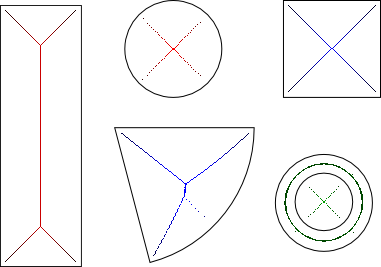
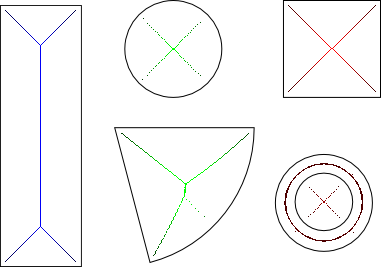
hough line joining

diff --git a/hough.py b/hough.py
@@ -38,6 +38,9 @@ circles = cv2.HoughCircles(gray,cv.CV_HOUGH_GRADIENT,1,50,
                             param1=50,param2=30,minRadius=0,maxRadius=0)
 
 
+def line_length(line):
+  return math.sqrt((line[0] - line[2])**2 + (line[1] + line[3])**2)
+
 if lines is not None:
   print "FOUND ", len(lines[0]), "LINES"
   unjoined_lines = []
@@ -63,19 +66,9 @@ if lines is not None:
 
   cv2.imwrite(FILE + 'houghlines.jpg',blankimg)
 
+  blankimg[:] = (255, 255, 255)
 
-  newlines = []
-  for line in lines:
-    if line[0] == line[2]:
-      if line[1] > line[3]:
-        newlines.append([line[2], line[3], line[0], line[1]])
-
-      else:
-        newlines.append(line)
-    else:
-      newlines.append(line)
-     
-  lines = newlines
+  lines = list(lines)
   while joined:
       didjoin = False
       print len(lines), "LINES ARE", lines
@@ -85,7 +78,7 @@ if lines is not None:
       from collections import defaultdict
       used = defaultdict(bool)
 
-      lines.sort(key=lambda x: abs(x[2] - x[0]) + abs(x[3] - x[1]))
+      lines.sort(key=lambda x: math.sqrt(abs(x[2] - x[0])**2 + abs(x[3] - x[1])**2))
       for line in lines:
           joined = False
           if used[tuple(line)]:
@@ -105,7 +98,7 @@ if lines is not None:
               try:
                   slope1 = float(line[3] - line[1]) / float(line[2] - line[0]) 
               except:
-                pass
+                  pass
 
               try:
                   slope2 = float(neighbor[3] - neighbor[1]) / float(neighbor[2] - neighbor[0]) 
@@ -127,7 +120,7 @@ if lines is not None:
                 a_val = neighbor[a]
                 b_val = neighbor[b]
 
-                THRESH=10
+                THRESH=30
                 closeness = math.sqrt((x_val - a_val)**2 + (y_val - b_val)**2)
 
                 if closeness > THRESH:
@@ -135,7 +128,7 @@ if lines is not None:
 
                 print "CORNERS MATCH", (x_val, y_val), (a_val, b_val), line, neighbor
 
-                if abs(slope1 - slope2) > 0.001:
+                if abs(slope1 - slope2) > 0.002:
                     continue
 
                 print "SLOPES MATCH", slope1, slope2
@@ -146,7 +139,7 @@ if lines is not None:
                 continue
 
               candidates.sort()
-              closeness, (x, y, a, b) = candidates[-1]
+              closeness, (x, y, a, b) = candidates[0]
 
 
 
@@ -158,9 +151,6 @@ if lines is not None:
               new_a_val = neighbor[(a + 2) % 4]
               new_b_val = neighbor[(b + 2) % 4]
 
-              used[tuple(line)] = True
-              used[tuple(neighbor)] = True
-        
               # THIS IS WHERE WE NEED TO DO IT RIGHT?
               newline = [
                   new_x_val,
@@ -170,15 +160,24 @@ if lines is not None:
               ]
 
               if tuple(newline) != tuple(line) and tuple(newline) != tuple(neighbor):
-                  didjoin = True
-                  joined = True
+                  print "LINE LENGTHS", line_length(line), line_length(neighbor), line_length(newline)
+                  if (line_length(line) > line_length(newline) or line_length(neighbor) > line_length(newline)):
+                    print "RESULTING LINE IS TOO SMALL", newline, "SKIPPING"
+                    continue
 
                   print "JOINING", line, neighbor
                   print "NEWLINE IS", newline
 
+                  used[tuple(line)] = True
+                  used[tuple(neighbor)] = True
+            
+                  didjoin = True
+                  joined = True
+
                   newlines.append(newline)
 
           if not joined:
+            print "COULDNT JOIN LINE, ADDING IN", line
             newlines.append(line)
 
 
@@ -192,9 +191,9 @@ if lines is not None:
   print "JOINED INTO %s LINES" % len(lines)
   for x1,y1,x2,y2 in lines:
       color = (
-        random.randint(0, 255), 
-        random.randint(0, 255), 
-        random.randint(0, 255), 
+        random.randint(0, 128), 
+        random.randint(0, 128), 
+        random.randint(0, 128), 
       )
 
       cv2.line(blankimg,(x1,y1),(x2,y2),color,2)

diff --git a/skellefin.py b/skellefin.py
@@ -7,9 +7,6 @@ import random
 import math
 import sys
 
-from sklearn.neighbors import KNeighborsRegressor
-import numpy as np
-
 FILE="shapes.png"
 #FILE="qIrIf0G.png"
 if len(sys.argv) > 1:
@@ -183,7 +180,7 @@ def grassfire_fill(image):
 
     # DEPTH STEPS = max_depth, so take 128 and divide by max_depth then multiply
     print 'MAX DEPTH', max_depth
-    color_step = max(256 / max_depth, 1)
+    color_step = max(256 / (max_depth or 1), 1)
     print "COLOR STEP", color_step
     for pos in visited:
         depth = visited[pos]
